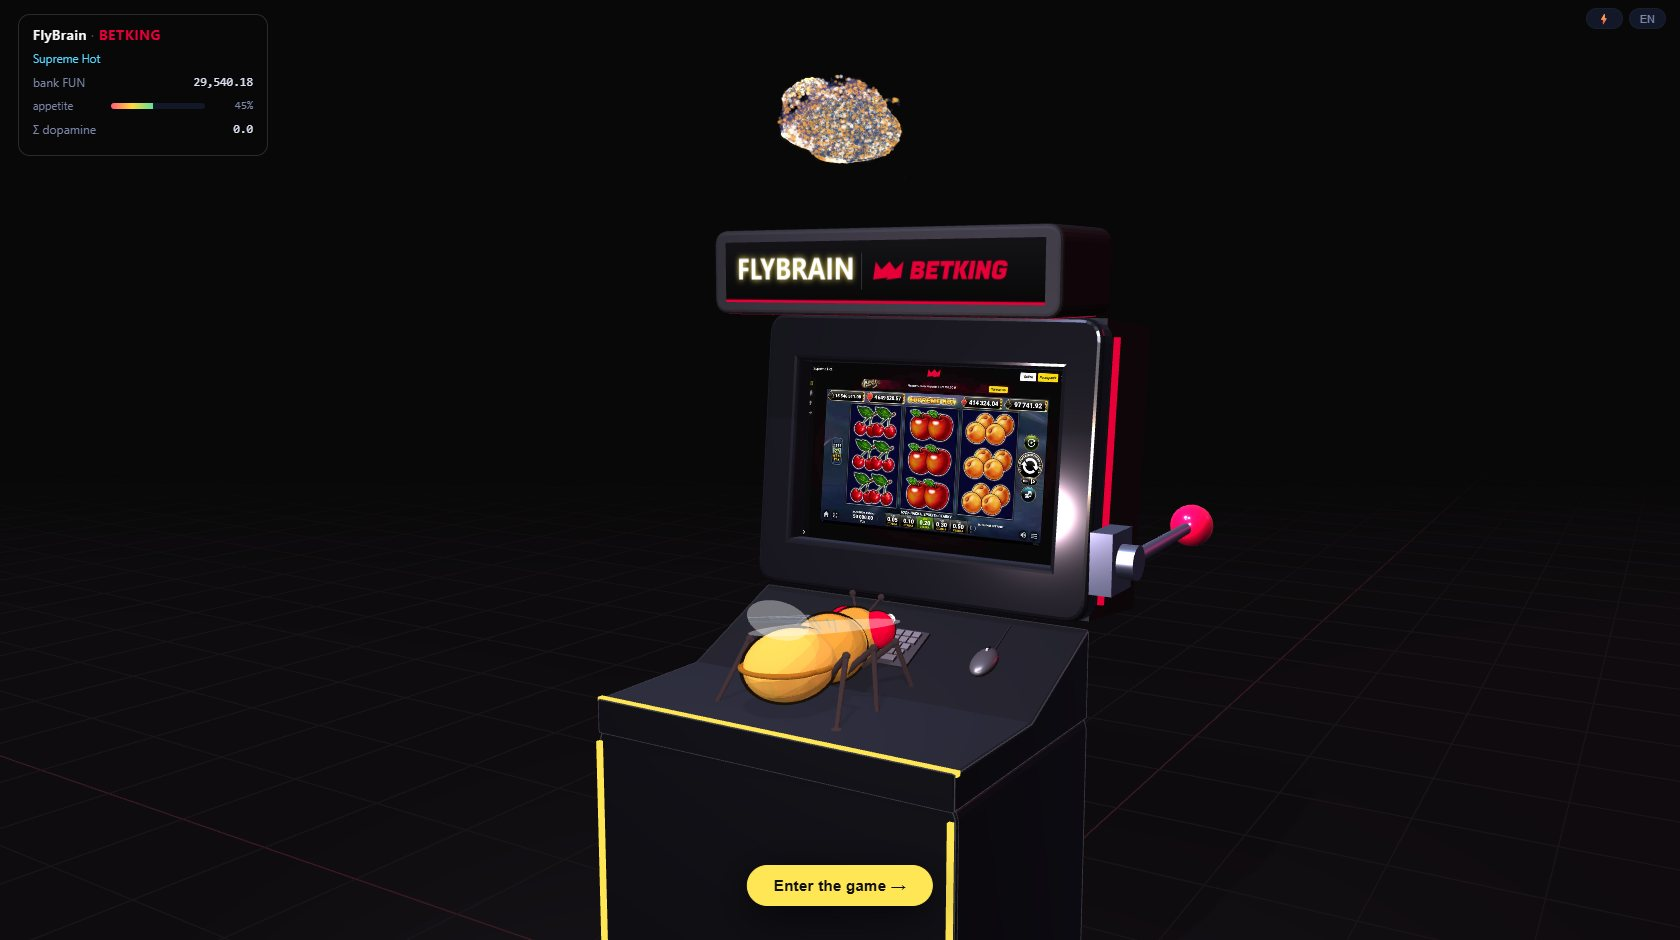
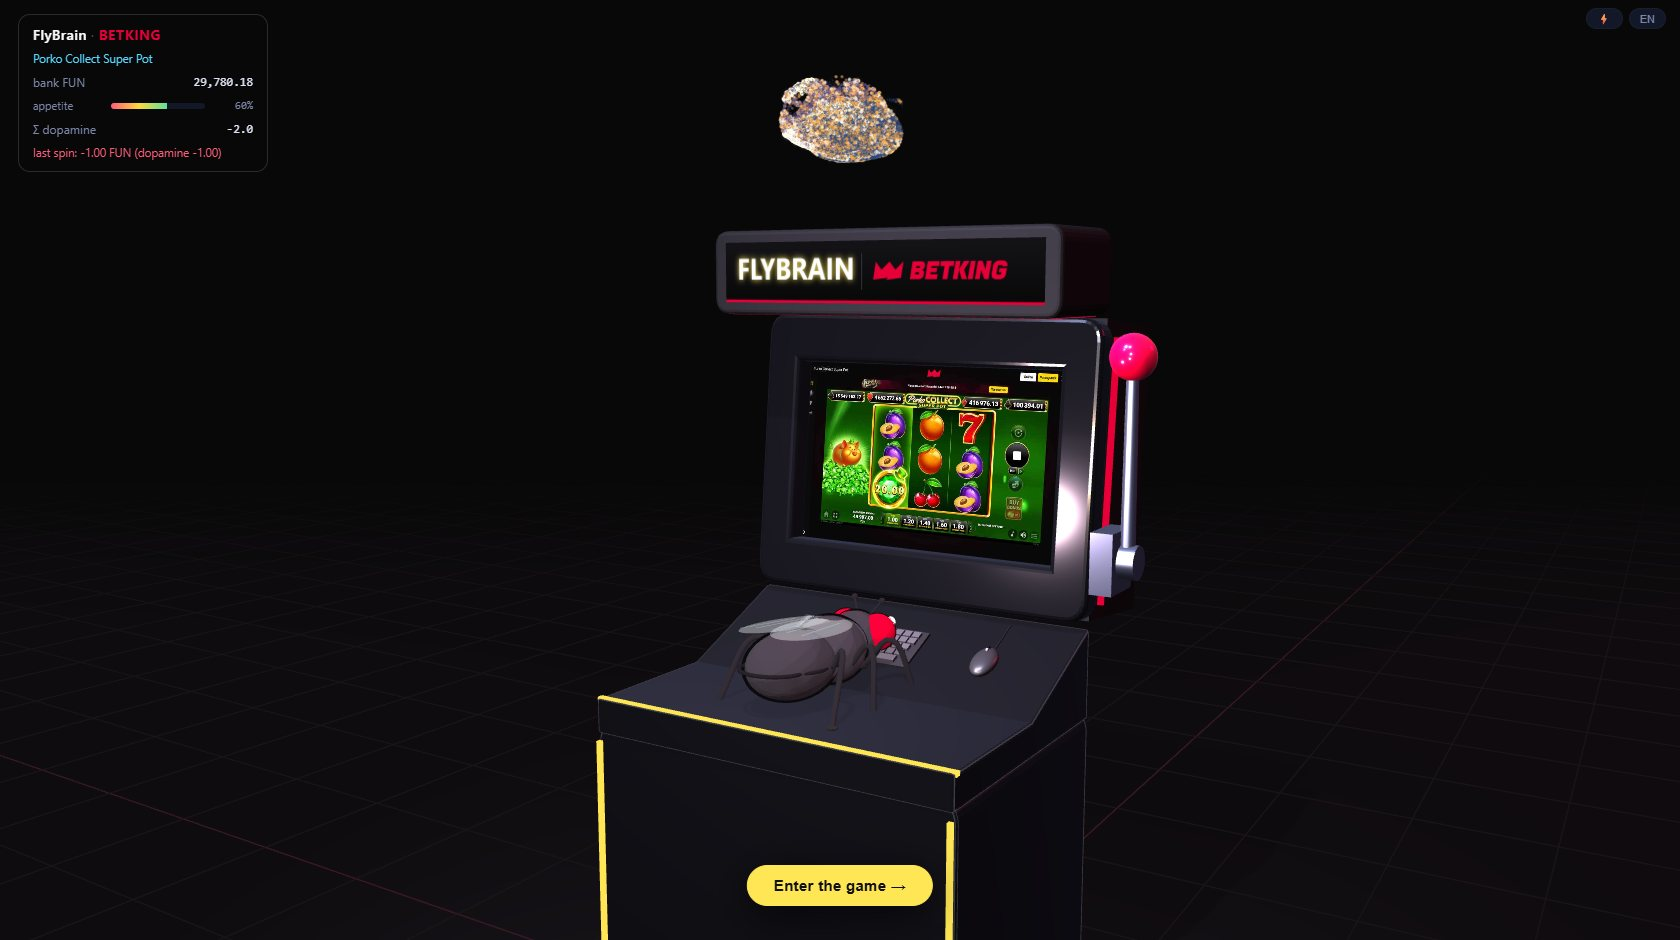
cartoon fly: black in the site's palette (charcoal body, segment lines, red eyes), wings along the body and opening sideways in flight (the ellipse's long axis was lateral), curved noodle legs hung on their hips - tripod gait when walking, sway when perched, dangle in flight

diff --git a/viz/index.html b/viz/index.html
@@ -682,16 +682,17 @@ try { localStorage.setItem('fly.model2', modelName); } catch (e) {}
 // skins: 'gold' (default) is the mascot look in the site's palette - toy-like golden body, red eyes, dark legs;
 // it stands out against the black cabinet and the colourful games without the glare of pure white
 const SKINS = {
+  betking: { thorax: 0x474752, body: 0x3e3e48, legs: 0x2a2a31, fuzz: 0x8a8a99, stripes: 0.6, eyes: 0xe60037, rough: 0.5, coat: 0.5, toonThorax: 0x474752, toonBody: 0x3e3e48, band: 0x1e1e24 },
   gold:  { thorax: 0xd9a93c, body: 0xf0c452, legs: 0x3a3236, fuzz: 0xfff0b0, stripes: 0.62, eyes: 0xe60037, rough: 0.42, coat: 0.6 },
   cream: { thorax: 0xece2d4, body: 0xf4ece2, legs: 0x8d7a66, fuzz: 0xfff4e6, stripes: 0.8, eyes: 0xe0262f },
   snow:  { thorax: 0xf2eaea, body: 0xfaf3f0, legs: 0x9a8c86, fuzz: 0xffe4e4, stripes: 0.88, eyes: 0xe8303a },
   pearl: { thorax: 0xe6e9ee, body: 0xf3f5f8, legs: 0x8a8f99, fuzz: 0xffffff, stripes: 0.85, eyes: 0xd9262e },
 };
-let skinName = 'gold'; try { skinName = new URLSearchParams(location.search).get('skin') || localStorage.getItem('fly.skin') || 'gold'; } catch (e) {}
+let skinName = 'betking'; try { skinName = new URLSearchParams(location.search).get('skin') || localStorage.getItem('fly.skin2') || 'betking'; } catch (e) {}
 function applySkin(name) {
-  const k = SKINS[name] || SKINS.gold; skinName = name; try { localStorage.setItem('fly.skin', name); } catch (e) {}
+  const k = SKINS[name] || SKINS.betking; skinName = name; try { localStorage.setItem('fly.skin2', name); } catch (e) {}
   MAT.thorax.color.set(k.thorax); MAT.body.color.set(k.body); MAT.legs.color.set(k.legs); MAT.eyes.color.set(k.eyes);
-  if (typeof TOON_BASE !== 'undefined') { TOON_BASE.thorax.set(k.thorax).multiplyScalar(0.95); TOON_BASE.body.set(k.body); TOON_BASE.legs.set(k.legs); TOON_BASE.eyes.set(k.eyes); setToonGain(toonGain); }
+  if (typeof TOON_BASE !== 'undefined') { TOON_BASE.thorax.set(k.toonThorax ?? k.thorax).multiplyScalar(0.95); TOON_BASE.body.set(k.toonBody ?? k.body); TOON_BASE.legs.set(k.legs); TOON_BASE.eyes.set(k.eyes); if (k.band) TOON_BASE.band.set(k.band); setToonGain(toonGain); }
   for (const m of [MAT.thorax, MAT.body]) { m.roughness = k.rough ?? 0.55; m.clearcoat = k.coat ?? 0.3; m.envMapIntensity = k.coat ? 0.55 : 0.4; }
   for (const m of [MAT.thorax, MAT.body, MAT.legs]) if (m.userData.shader) { m.userData.shader.uniforms.uFuzz.value.set(k.fuzz); if (m !== MAT.legs) m.userData.shader.uniforms.uDark.value = k.stripes; }
 }
@@ -700,15 +701,15 @@ function applySkin(name) {
 // the scanned models (thorax / body / eyes / lWing / rWing / legs), so the animation code does not care.
 const toonGradient = (() => { const d = new Uint8Array([90, 90, 90, 175, 175, 175, 255, 255, 255]); const t = new THREE.DataTexture(d, 3, 1, THREE.RGBFormat); t.minFilter = t.magFilter = THREE.NearestFilter; t.needsUpdate = true; return t; })();
 const TOON = {
-  thorax: new THREE.MeshToonMaterial({ color: 0xe9b93a, gradientMap: toonGradient }),
-  body:   new THREE.MeshToonMaterial({ color: 0xf5c842, gradientMap: toonGradient }),
-  band:   new THREE.MeshToonMaterial({ color: 0x9a6a1c, gradientMap: toonGradient }),
+  thorax: new THREE.MeshToonMaterial({ color: 0x474752, gradientMap: toonGradient }),   // a black fly, in the site's palette: charcoal body,
+  body:   new THREE.MeshToonMaterial({ color: 0x3e3e48, gradientMap: toonGradient }),   // yellow bands, red eyes
+  band:   new THREE.MeshToonMaterial({ color: 0x1e1e24, gradientMap: toonGradient }),   // segment lines (yellow bands read as a wasp)
   eyes:   new THREE.MeshToonMaterial({ color: 0xe60037, gradientMap: toonGradient }),
   shine:  new THREE.MeshBasicMaterial({ color: 0xffffff }),
-  legs:   new THREE.MeshToonMaterial({ color: 0x3a3236, gradientMap: toonGradient }),
+  legs:   new THREE.MeshToonMaterial({ color: 0x2a2a31, gradientMap: toonGradient }),
   wing:   new THREE.MeshPhysicalMaterial({ color: 0xe4f3ff, transparent: true, opacity: 0.38, roughness: 0.15, metalness: 0.05, side: THREE.DoubleSide, depthWrite: false, envMap, envMapIntensity: 0.9 }),
   vein:   new THREE.MeshBasicMaterial({ color: 0x7d9fbf, transparent: true, opacity: 0.6, depthWrite: false }),
-  outline: new THREE.MeshBasicMaterial({ color: 0x1a1208, side: THREE.BackSide }),
+  outline: new THREE.MeshBasicMaterial({ color: 0x0b0b0e, side: THREE.BackSide }),
 };
 // the arcade's lights add up to ~3x: toon colours are stored at a third so the bright step lands on the true colour
 const TOON_BASE = {}; for (const k of ['thorax', 'body', 'band', 'eyes', 'legs']) TOON_BASE[k] = TOON[k].color.clone();
@@ -726,7 +727,7 @@ function buildCartoonFly() {
   const thorax = outlined(new THREE.Mesh(new THREE.SphereGeometry(0.78, 40, 28), TOON.thorax)); thorax.name = 'thorax'; thorax.scale.set(1, 0.92, 1.05); thorax.position.set(0, 0.05, 0.25); model.add(thorax);
   const body = new THREE.Group(); body.name = 'body'; model.add(body);
   const abd = outlined(new THREE.Mesh(new THREE.SphereGeometry(0.8, 40, 28), TOON.body)); abd.scale.set(1, 0.9, 1.45); abd.position.set(0, -0.08, -1.05); body.add(abd);
-  [-0.35, 0.05, 0.45].forEach((z, i) => { const ring = new THREE.Mesh(new THREE.TorusGeometry(0.8 * Math.sqrt(Math.max(0.05, 1 - (z / 1.45) ** 2)) * 1.01, 0.06, 10, 48), TOON.band); ring.rotation.x = Math.PI / 2; ring.position.set(0, -0.08, -1.05 + z * 1.0); ring.scale.set(1, 1, 0.9); body.add(ring); });
+  [-0.62, -0.05, 0.5].forEach(z => { const r = 0.8 * Math.sqrt(Math.max(0.05, 1 - (z / 1.16) ** 2)); const ring = new THREE.Mesh(new THREE.TorusGeometry(r, 0.045, 10, 48), TOON.band); ring.rotation.x = Math.PI / 2; ring.position.set(0, -0.08, -1.05 + z); ring.scale.set(1, 1, 0.9); body.add(ring); });
   const head = outlined(new THREE.Mesh(new THREE.SphereGeometry(0.58, 32, 24), TOON.thorax)); head.position.set(0, 0.18, 1.2); body.add(head);
   [-1, 1].forEach(sg => { const ant = tube(new THREE.Vector3(sg * 0.15, 0.62, 1.45), new THREE.Vector3(sg * 0.38, 0.98, 1.62), 0.035, TOON.legs); body.add(ant); const tipA = new THREE.Mesh(new THREE.SphereGeometry(0.075, 10, 8), TOON.legs); tipA.position.set(sg * 0.38, 0.98, 1.62); body.add(tipA); });
   const mouth = new THREE.Mesh(new THREE.TorusGeometry(0.16, 0.035, 8, 24, Math.PI), TOON.band); mouth.position.set(0, -0.12, 1.66); mouth.rotation.set(0, 0, Math.PI); body.add(mouth);   // a little smile
@@ -734,19 +735,23 @@ function buildCartoonFly() {
   [-1, 1].forEach(sg => { const e = outlined(new THREE.Mesh(new THREE.SphereGeometry(0.4, 32, 24), TOON.eyes), 1.05); e.position.set(sg * 0.42, 0.32, 1.42); eyes.add(e);
     const sh = new THREE.Mesh(new THREE.SphereGeometry(0.12, 12, 10), TOON.shine); sh.position.set(sg * 0.55, 0.52, 1.72); eyes.add(sh);
     const sh2 = new THREE.Mesh(new THREE.SphereGeometry(0.05, 10, 8), TOON.shine); sh2.position.set(sg * 0.33, 0.14, 1.78); eyes.add(sh2); });
-  const legs = new THREE.Group(); legs.name = 'legs'; model.add(legs);
-  const legSpec = [[0.75, 0.9, 1.35], [0.15, 0.1, -0.15], [-0.45, -0.85, -1.55]];   // [hip z, knee z, foot z] for front / middle / hind pairs
-  legSpec.forEach(([hz, kz, fz]) => [-1, 1].forEach(sg => {
-    const hip = new THREE.Vector3(sg * 0.55, -0.35, hz), knee = new THREE.Vector3(sg * 1.25, 0.25, kz), foot = new THREE.Vector3(sg * 1.55, -1.05, fz);
-    legs.add(tube(hip, knee, 0.075, TOON.legs)); legs.add(tube(knee, foot, 0.06, TOON.legs));
-    const kb = new THREE.Mesh(new THREE.SphereGeometry(0.085, 10, 8), TOON.legs); kb.position.copy(knee); legs.add(kb);
-    const fb = new THREE.Mesh(new THREE.SphereGeometry(0.09, 10, 8), TOON.legs); fb.position.copy(foot); fb.scale.set(1.3, 0.6, 1.3); legs.add(fb); }));
+  // legs: smooth "noodle" tubes along a curve hip -> knee -> foot, each hung on its hip so it can swing
+  const legs = new THREE.Group(); legs.name = 'legs'; model.add(legs); fly.legParts = [];
+  const legSpec = [[0.75, 0.95, 1.4], [0.15, 0.1, -0.2], [-0.45, -0.9, -1.6]];   // [hip z, knee z, foot z] for front / middle / hind pairs
+  legSpec.forEach(([hz, kz, fz], pair) => [-1, 1].forEach(sg => {
+    const hip = new THREE.Vector3(sg * 0.55, -0.3, hz), knee = new THREE.Vector3(sg * 1.2, 0.3, kz), foot = new THREE.Vector3(sg * 1.55, -1.05, fz);
+    const leg = new THREE.Group(); leg.position.copy(hip); legs.add(leg);
+    const curve = new THREE.CatmullRomCurve3([new THREE.Vector3(0, 0, 0), knee.clone().sub(hip), foot.clone().sub(hip)], false, 'catmullrom', 0.6);
+    const tubeMesh = new THREE.Mesh(new THREE.TubeGeometry(curve, 18, 0.062, 10, false), TOON.legs); leg.add(tubeMesh);
+    const fb = new THREE.Mesh(new THREE.SphereGeometry(0.095, 12, 10), TOON.legs); fb.position.copy(foot).sub(hip); fb.scale.set(1.35, 0.55, 1.35); leg.add(fb);
+    const hb = new THREE.Mesh(new THREE.SphereGeometry(0.09, 10, 8), TOON.legs); leg.add(hb);
+    fly.legParts.push({ group: leg, phase: (pair + (sg > 0 ? 1 : 0)) % 2 ? Math.PI : 0, idle: Math.random() * 6.3, side: sg }); }));
   [-1, 1].forEach(sg => {   // wings: ellipses pointing back and outwards, veins as thin strips
     const w = new THREE.Group(); w.name = sg < 0 ? 'lWing' : 'rWing';
-    const shape = new THREE.Shape(); shape.absellipse(0, 0, 1.55, 0.62, 0, Math.PI * 2, false, 0);
-    const wm = new THREE.Mesh(new THREE.ShapeGeometry(shape, 40), TOON.wing); wm.rotation.x = -Math.PI / 2; wm.rotation.z = 0; wm.position.set(0, 0, -1.35); w.add(wm);
-    [[-0.55, 0.12], [-0.55, -0.12], [-1.0, 0.2], [-1.0, -0.22]].forEach(([dz, dx]) => { const v = new THREE.Mesh(new THREE.BoxGeometry(0.03, 0.005, 1.3), TOON.vein); v.position.set(dx, 0.003, dz - 0.3); v.rotation.y = dx * 0.35; w.add(v); });
-    w.position.set(sg * 0.35, 0.72, 0.3); w.rotation.y = sg * 0.65; w.rotation.z = sg * -0.08;   // hinge at the thorax top, swept back-outwards
+    const shape = new THREE.Shape(); shape.absellipse(0, 0, 0.6, 1.3, 0, Math.PI * 2, false, 0);   // long axis along the body (z after the tilt)
+    const wm = new THREE.Mesh(new THREE.ShapeGeometry(shape, 40), TOON.wing); wm.rotation.x = -Math.PI / 2; wm.position.set(0, 0, -1.2); w.add(wm);
+    [[-1.1, 0.15], [-1.1, -0.15], [-1.3, 0.38], [-1.3, -0.38]].forEach(([dz, dx]) => { const v = new THREE.Mesh(new THREE.BoxGeometry(0.03, 0.005, 1.6), TOON.vein); v.position.set(dx, 0.003, dz); v.rotation.y = -dx * 0.25; w.add(v); });
+    w.position.set(sg * 0.35, 0.72, 0.3); w.rotation.y = -sg * 0.3; w.rotation.z = sg * -0.06;   // hinge at the thorax top, swept back and OUTWARDS (left wing to -x)
     model.add(w);
   });
   return model;
@@ -1281,6 +1286,7 @@ function animate(now) {
   const squash = 1 - 0.18 * Math.sin(Math.PI * landing);
   if (fly.model) fly.model.scale.set(1 + 0.08 * (1 - squash), squash, 1 + 0.06 * (1 - squash));
   if (fly.body) fly.body.scale.set(1, 1 + 0.02 * Math.sin(t0 * 5.2), 1);
+  if (fly.legParts) fly.legParts.forEach(l => { const swing = walking ? Math.sin(fs.phase * 2.2 + l.phase) * 0.32 : grounded ? Math.sin(t0 * 1.4 + l.idle) * 0.035 : 0.25 + Math.sin(t0 * 5 + l.idle) * 0.08; l.group.rotation.x += (swing - l.group.rotation.x) * Math.min(1, dt * 10); l.group.rotation.z = grounded ? 0 : l.side * 0.25; });
   if (fly.legs) { const tuck = (fly.tuck = (fly.tuck || 0) + ((grounded ? 0 : 1) - (fly.tuck || 0)) * Math.min(1, dt * 8)); qA.setFromAxisAngle(AX_X, 0.55 * tuck); qB.setFromAxisAngle(AX_Y, walking ? Math.sin(fs.phase * 2.2) * 0.07 : 0); fly.legs.quaternion.copy(qA).multiply(qB); }
   fly.spread = (fly.spread || 0) + ((grounded ? 0 : 1.25) - (fly.spread || 0)) * Math.min(1, dt * 7);
   const beat = t0 * 88 + Math.sin(t0 * 3) * 0.6, amp = grounded ? 0 : (0.5 + 0.08 * Math.sin(t0 * 2.7)) * Math.min(1, fly.spread);

diff --git a/README.md b/README.md
@@ -97,13 +97,13 @@ switches to Ukrainian.
   harder glow as a whole; the footer names the strongest regions. Drag to rotate. Activity arrives as a
   spike bitmask 10–20× per second and the shader interpolates between frames, so the cloud breathes
   smoothly at any display rate (120 fps on a 120 Hz screen).
-* **Drosophila** — the 3-D fly. Default is a **cartoon mascot** built from primitives (round gold body with
-  bands, big glossy red eyes with highlights, stubby legs, big translucent wings, toon shading with soft
-  outlines, a little smile) - friendly rather than realistic. Two scanned bodies stay available:
+* **Drosophila** — the 3-D fly. Default is a **cartoon mascot** built from primitives: a black fly in the site's palette (charcoal
+  body with segment lines, big glossy red eyes with highlights, a little smile), curved "noodle" legs that
+  swing in a tripod gait when it walks, sway when it sits and dangle in flight, big translucent wings, toon
+  shading with soft outlines - friendly rather than realistic. Two scanned bodies stay available:
   `?model=flybody` (TuragaLab / Google DeepMind flybody, Apache-2.0: segmented legs and abdomen, antennae,
   proboscis, wing veins, bristles; built from the MJCF + OBJ meshes by `tools/build_flybody.py`) and
-  `?model=nmf` (the older NeuroMechFly build). Skins in the site's palette (`gold` default,
-  `?skin=cream|snow|pearl`). Hinged wings with motion ghosts, legs that tuck in flight, spring-based steering. It flies to the element it decided on and
+  `?model=nmf` (the older NeuroMechFly build). Skins: `betking` (default, black), `?skin=gold|cream|snow|pearl`. Hinged wings with motion ghosts, legs that tuck in flight, spring-based steering. It flies to the element it decided on and
   lands exactly on it; when broke it sits down and smokes until somebody gives it money. Click it for
   the gear menu.
 * **The fly's browser** — a browser window with the live video of the fly's Chromium as motion-JPEG
